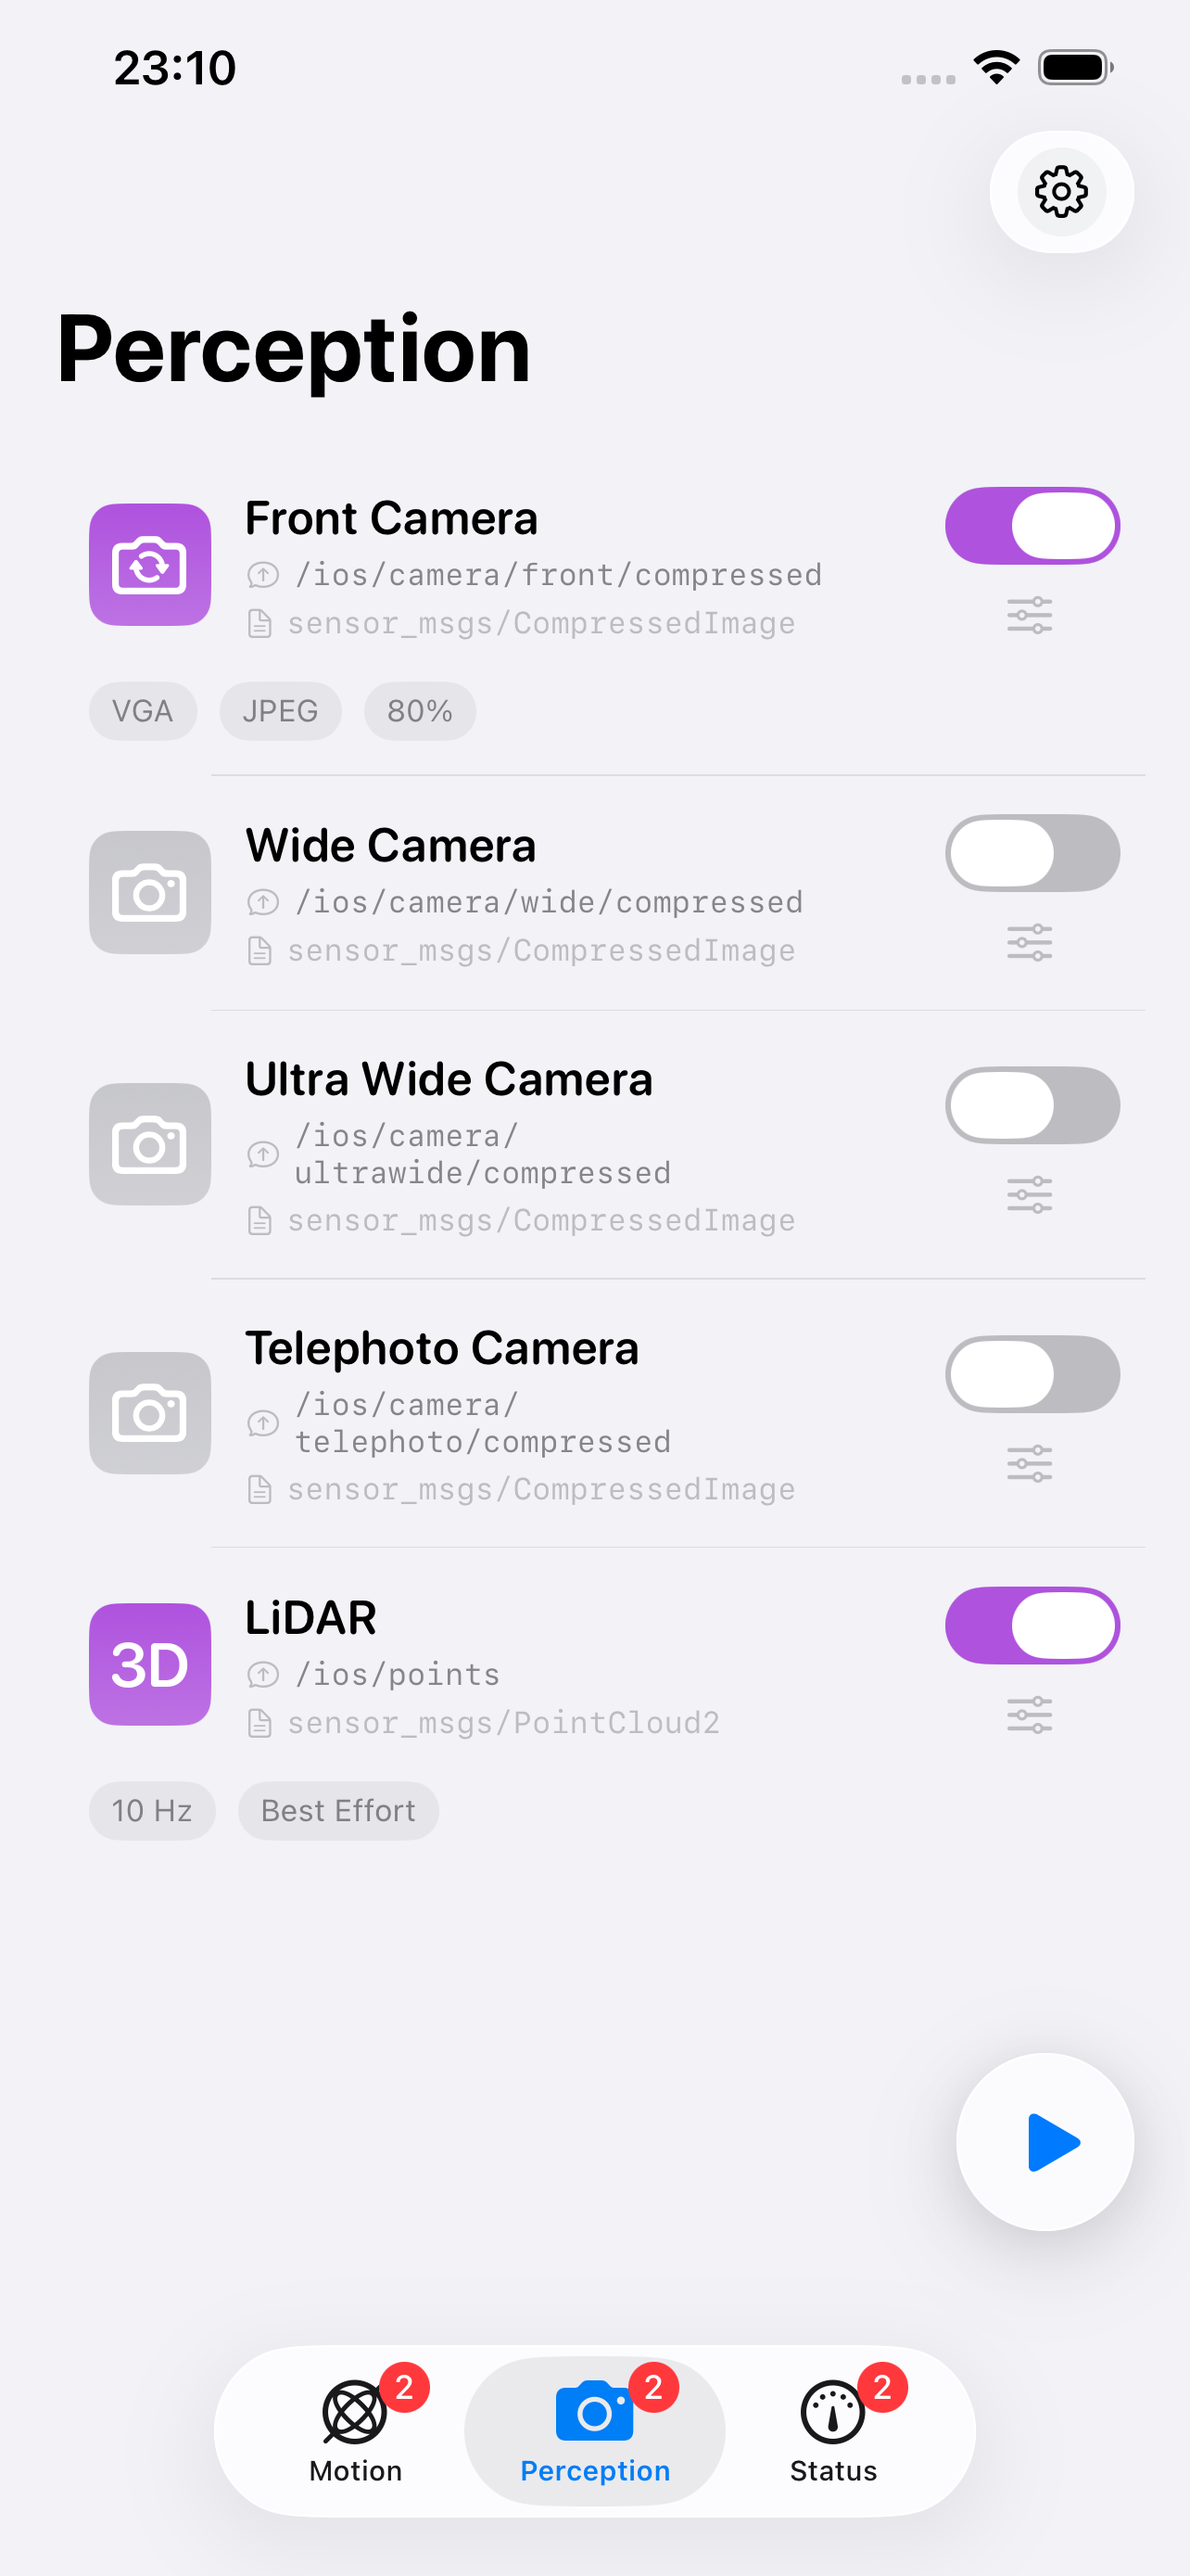
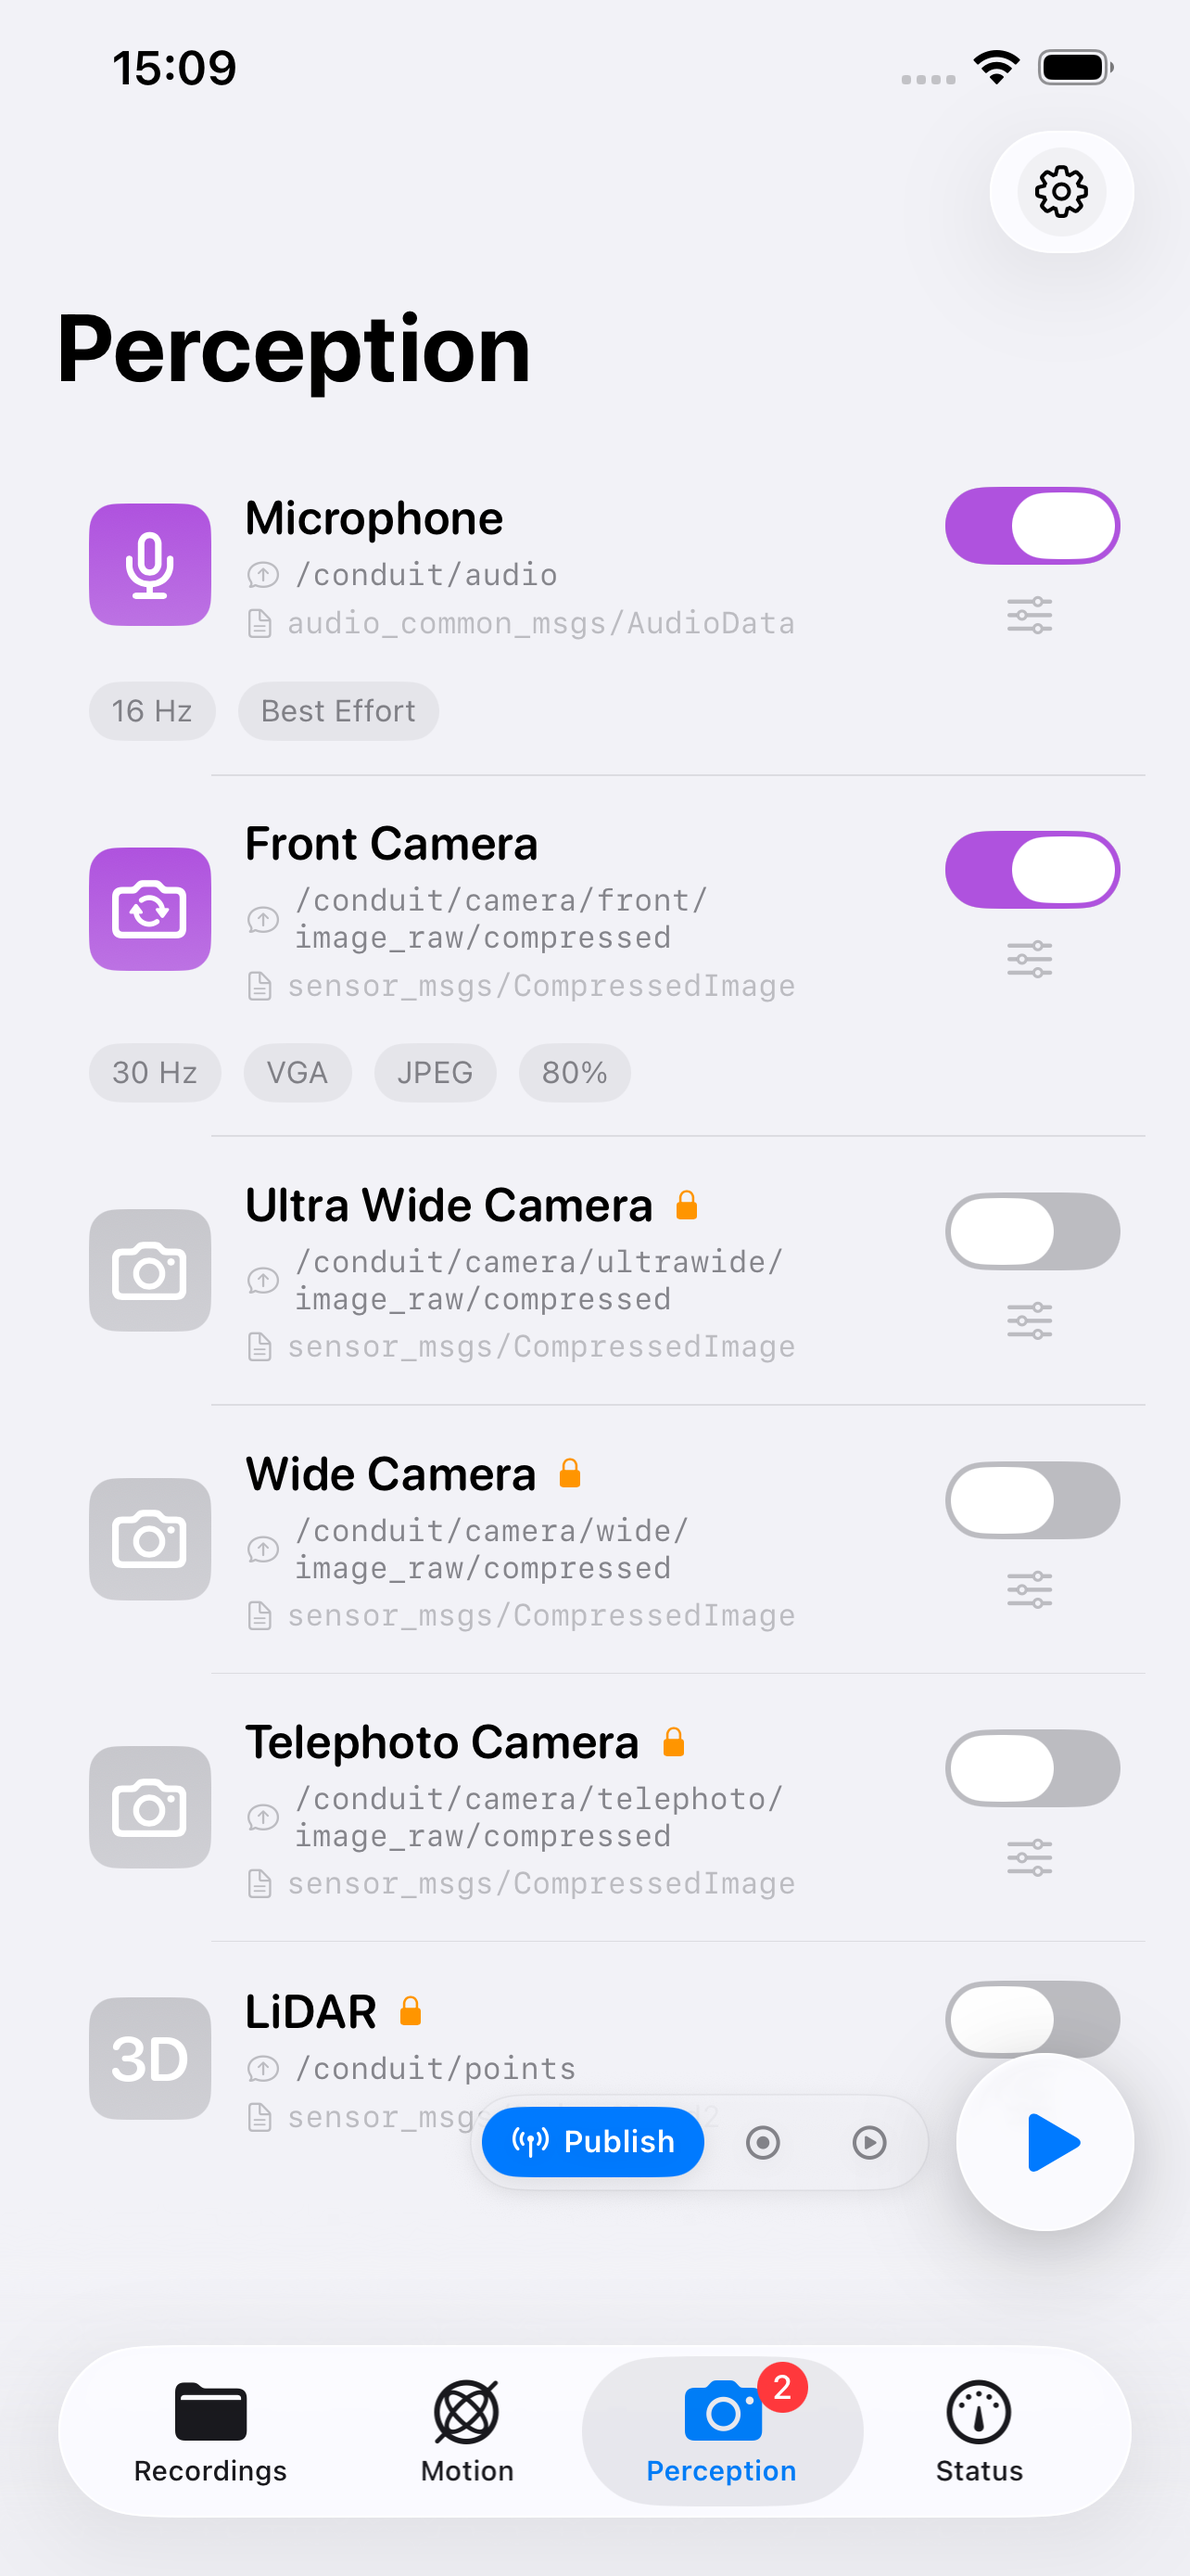
docs: refresh screenshots and tab layout for Conduit 2.2.1 (#18)

diff --git a/README.md b/README.md
@@ -78,9 +78,9 @@ See [TRANSPORTS.md](docs/TRANSPORTS.md) for a detailed comparison.
 ### 12 Sensor Types
 
 - **Motion**: IMU (100Hz) · Magnetometer (100Hz) · GPS (1Hz) · Proximity (10Hz)
-- **Perception**: Camera (15Hz) · LiDAR (10Hz)
+- **Perception**: Camera (30Hz) · LiDAR (30Hz) · Microphone (`audio_common_msgs/AudioData`, streaming)
 - **Environment**: Barometer (10Hz) · Illuminance (10Hz) · Thermal (1Hz)
-- **Input**: Game Controller (50Hz) · Microphone (`audio_common_msgs/AudioData`, streaming)
+- **Input**: Game Controller (50Hz)
 - **Status**: Battery (1Hz)
 
 ### MCAP Recording
@@ -97,7 +97,7 @@ A core slice (IMU, Magnetometer, GPS, Proximity, Barometer, Illuminance, Thermal
 
 ## Screenshots
 
-### Sensor Tabs
+### Main Tabs
 
 <table>
 <tr>
@@ -109,39 +109,44 @@ A core slice (IMU, Magnetometer, GPS, Proximity, Barometer, Illuminance, Thermal
 <td align="center" width="25%">
 <img src="images/perception-enabled.png" width="180" alt="Perception Sensors"><br>
 <b>Perception</b><br>
-<sub>Camera, LiDAR</sub>
+<sub>Microphone, Camera, LiDAR</sub>
 </td>
 <td align="center" width="25%">
 <img src="images/status-enabled.png" width="180" alt="Status Sensors"><br>
 <b>Status</b><br>
-<sub>Battery, Thermal, Barometer, etc.</sub>
+<sub>Battery, Thermal, Barometer, Illuminance, Game Controller</sub>
 </td>
 <td align="center" width="25%">
-<img src="images/settings.png" width="180" alt="Settings"><br>
-<b>Settings</b><br>
-<sub>Router, Node, ROS 2 Distribution</sub>
+<img src="images/recordings.png" width="180" alt="Recordings"><br>
+<b>Recordings</b><br>
+<sub>MCAP bags — record alongside or instead of live publishing</sub>
 </td>
 </tr>
 </table>
 
-### Getting Started
+### Onboarding & Settings
 
 <table>
 <tr>
 <td align="center" width="25%">
-<img src="images/onboarding1.png" width="180" alt="Step 1: Start Router"><br>
-<b>1. Start Zenoh Router</b><br>
-<sub>Run rmw_zenohd on your ROS 2 system</sub>
+<img src="images/setup-communication.png" width="180" alt="Setup Communication"><br>
+<b>1. Setup Communication</b><br>
+<sub>Pick Zenoh or DDS, follow the host-side recipe</sub>
 </td>
 <td align="center" width="25%">
-<img src="images/onboarding2.png" width="180" alt="Step 2: Connect"><br>
-<b>2. Connect to Router</b><br>
-<sub>Enter IP address and port</sub>
+<img src="images/switch-transport.png" width="180" alt="Switch Transport Anytime"><br>
+<b>2. Switch Transport Anytime</b><br>
+<sub>Change transport, router, or discovery later from Settings</sub>
 </td>
 <td align="center" width="25%">
-<img src="images/onboarding3.png" width="180" alt="Step 3: Publish"><br>
-<b>3. Start Publishing</b><br>
-<sub>Select sensors and stream to ROS 2</sub>
+<img src="images/start-publishing.png" width="180" alt="Start Publishing or Recording"><br>
+<b>3. Publish or Record</b><br>
+<sub>Tap Play to stream, or Record to save an MCAP file</sub>
+</td>
+<td align="center" width="25%">
+<img src="images/settings.png" width="180" alt="Settings"><br>
+<b>Settings</b><br>
+<sub>Transport, Domain ID, Device IP, Router address</sub>
 </td>
 </tr>
 </table>
